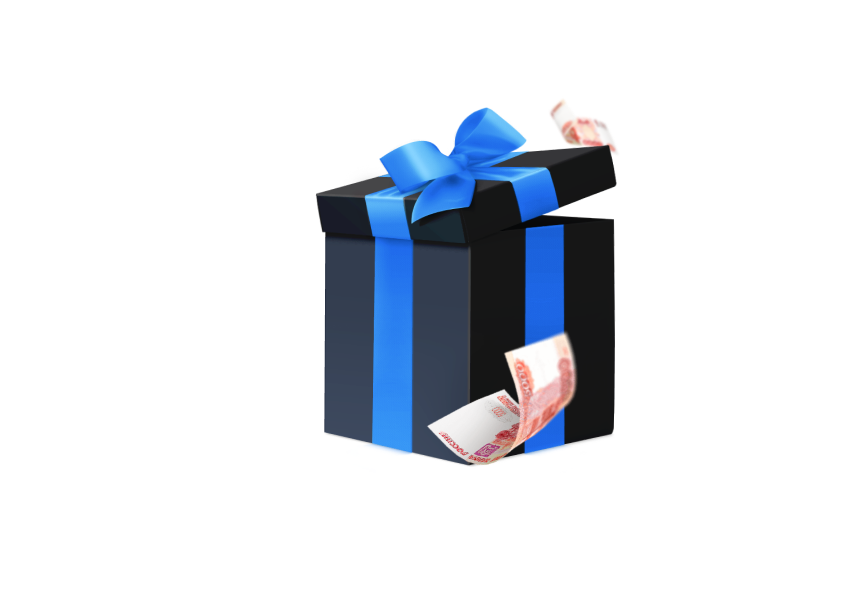
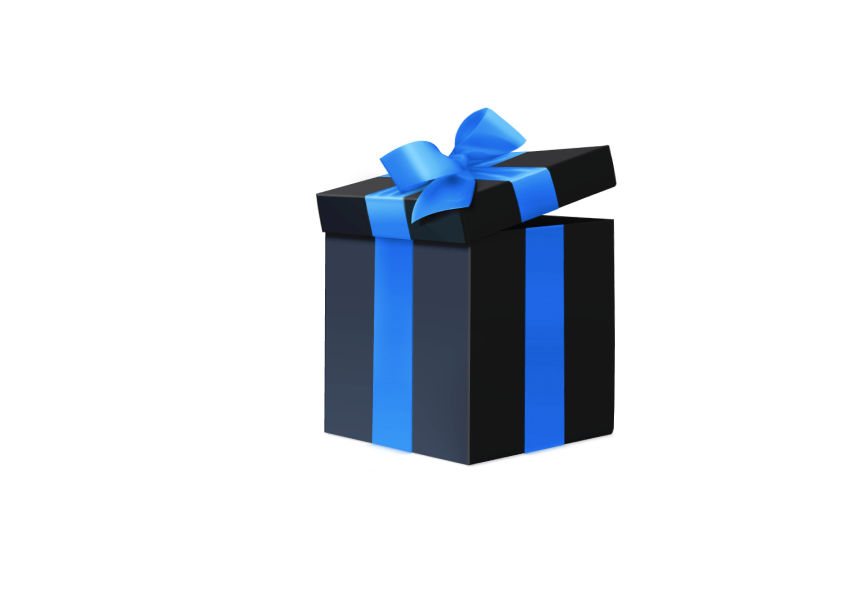
Добавил параллакс эффект изображениям

Changed region(s): [[0.4877, 0.5482, 0.7011, 0.7919], [0.6401, 0.1523, 0.7315, 0.2741]]

diff --git a/js/rellax.min.js b/js/rellax.min.js
@@ -1,0 +1,14 @@
+(function(q,g){"function"===typeof define&&define.amd?define([],g):"object"===typeof module&&module.exports?module.exports=g():q.Rellax=g()})("undefined"!==typeof window?window:global,function(){var q=function(g,u){function C(){if(3===a.options.breakpoints.length&&Array.isArray(a.options.breakpoints)){var f=!0,c=!0,b;a.options.breakpoints.forEach(function(a){"number"!==typeof a&&(c=!1);null!==b&&a<b&&(f=!1);b=a});if(f&&c)return}a.options.breakpoints=[576,768,1201];console.warn("Rellax: You must pass an array of 3 numbers in ascending order to the breakpoints option. Defaults reverted")}
+    var a=Object.create(q.prototype),l=0,v=0,m=0,n=0,d=[],w=!0,A=window.requestAnimationFrame||window.webkitRequestAnimationFrame||window.mozRequestAnimationFrame||window.msRequestAnimationFrame||window.oRequestAnimationFrame||function(a){return setTimeout(a,1E3/60)},p=null,x=!1;try{var k=Object.defineProperty({},"passive",{get:function(){x=!0}});window.addEventListener("testPassive",null,k);window.removeEventListener("testPassive",null,k)}catch(f){}var D=window.cancelAnimationFrame||window.mozCancelAnimationFrame||
+        clearTimeout,E=window.transformProp||function(){var a=document.createElement("div");if(null===a.style.transform){var c=["Webkit","Moz","ms"],b;for(b in c)if(void 0!==a.style[c[b]+"Transform"])return c[b]+"Transform"}return"transform"}();a.options={speed:-2,verticalSpeed:null,horizontalSpeed:null,breakpoints:[576,768,1201],center:!1,wrapper:null,relativeToWrapper:!1,round:!0,vertical:!0,horizontal:!1,verticalScrollAxis:"y",horizontalScrollAxis:"x",callback:function(){}};u&&Object.keys(u).forEach(function(d){a.options[d]=
+        u[d]});u&&u.breakpoints&&C();g||(g=".rellax");k="string"===typeof g?document.querySelectorAll(g):[g];if(0<k.length){a.elems=k;if(a.options.wrapper&&!a.options.wrapper.nodeType)if(k=document.querySelector(a.options.wrapper))a.options.wrapper=k;else{console.warn("Rellax: The wrapper you're trying to use doesn't exist.");return}var F,B=function(){for(var f=0;f<d.length;f++)a.elems[f].style.cssText=d[f].style;d=[];v=window.innerHeight;n=window.innerWidth;f=a.options.breakpoints;F=n<f[0]?"xs":n>=f[0]&&n<
+    f[1]?"sm":n>=f[1]&&n<f[2]?"md":"lg";H();for(f=0;f<a.elems.length;f++){var c=void 0,b=a.elems[f],e=b.getAttribute("data-rellax-percentage"),y=b.getAttribute("data-rellax-speed"),t=b.getAttribute("data-rellax-xs-speed"),g=b.getAttribute("data-rellax-mobile-speed"),h=b.getAttribute("data-rellax-tablet-speed"),k=b.getAttribute("data-rellax-desktop-speed"),l=b.getAttribute("data-rellax-vertical-speed"),m=b.getAttribute("data-rellax-horizontal-speed"),p=b.getAttribute("data-rellax-vertical-scroll-axis"),
+        q=b.getAttribute("data-rellax-horizontal-scroll-axis"),u=b.getAttribute("data-rellax-zindex")||0,x=b.getAttribute("data-rellax-min"),A=b.getAttribute("data-rellax-max"),C=b.getAttribute("data-rellax-min-x"),D=b.getAttribute("data-rellax-max-x"),E=b.getAttribute("data-rellax-min-y"),L=b.getAttribute("data-rellax-max-y"),r=!0;t||g||h||k?c={xs:t,sm:g,md:h,lg:k}:r=!1;t=a.options.wrapper?a.options.wrapper.scrollTop:window.pageYOffset||document.documentElement.scrollTop||document.body.scrollTop;a.options.relativeToWrapper&&
+    (t=(window.pageYOffset||document.documentElement.scrollTop||document.body.scrollTop)-a.options.wrapper.offsetTop);var z=a.options.vertical?e||a.options.center?t:0:0,I=a.options.horizontal?e||a.options.center?a.options.wrapper?a.options.wrapper.scrollLeft:window.pageXOffset||document.documentElement.scrollLeft||document.body.scrollLeft:0:0;t=z+b.getBoundingClientRect().top;g=b.clientHeight||b.offsetHeight||b.scrollHeight;h=I+b.getBoundingClientRect().left;k=b.clientWidth||b.offsetWidth||b.scrollWidth;
+        z=e?e:(z-t+v)/(g+v);e=e?e:(I-h+n)/(k+n);a.options.center&&(z=e=.5);c=r&&null!==c[F]?Number(c[F]):y?y:a.options.speed;l=l?l:a.options.verticalSpeed;m=m?m:a.options.horizontalSpeed;p=p?p:a.options.verticalScrollAxis;q=q?q:a.options.horizontalScrollAxis;y=J(e,z,c,l,m);b=b.style.cssText;r="";if(e=/transform\s*:/i.exec(b))r=b.slice(e.index),r=(e=r.indexOf(";"))?" "+r.slice(11,e).replace(/\s/g,""):" "+r.slice(11).replace(/\s/g,"");d.push({baseX:y.x,baseY:y.y,top:t,left:h,height:g,width:k,speed:c,verticalSpeed:l,
+            horizontalSpeed:m,verticalScrollAxis:p,horizontalScrollAxis:q,style:b,transform:r,zindex:u,min:x,max:A,minX:C,maxX:D,minY:E,maxY:L})}K();w&&(window.addEventListener("resize",B),w=!1,G())},H=function(){var d=l,c=m;l=a.options.wrapper?a.options.wrapper.scrollTop:(document.documentElement||document.body.parentNode||document.body).scrollTop||window.pageYOffset;m=a.options.wrapper?a.options.wrapper.scrollLeft:(document.documentElement||document.body.parentNode||document.body).scrollLeft||window.pageXOffset;
+        a.options.relativeToWrapper&&(l=((document.documentElement||document.body.parentNode||document.body).scrollTop||window.pageYOffset)-a.options.wrapper.offsetTop);return d!=l&&a.options.vertical||c!=m&&a.options.horizontal?!0:!1},J=function(d,c,b,e,g){var f={};d=100*(g?g:b)*(1-d);c=100*(e?e:b)*(1-c);f.x=a.options.round?Math.round(d):Math.round(100*d)/100;f.y=a.options.round?Math.round(c):Math.round(100*c)/100;return f},h=function(){window.removeEventListener("resize",h);window.removeEventListener("orientationchange",
+        h);(a.options.wrapper?a.options.wrapper:window).removeEventListener("scroll",h);(a.options.wrapper?a.options.wrapper:document).removeEventListener("touchmove",h);p=A(G)},G=function(){H()&&!1===w?(K(),p=A(G)):(p=null,window.addEventListener("resize",h),window.addEventListener("orientationchange",h),(a.options.wrapper?a.options.wrapper:window).addEventListener("scroll",h,x?{passive:!0}:!1),(a.options.wrapper?a.options.wrapper:document).addEventListener("touchmove",h,x?{passive:!0}:!1))},K=function(){for(var f,
+                                                                                                                                                                                                                                                                                                                                                                                                                                                                                                                                       c=0;c<a.elems.length;c++){var b=d[c].verticalScrollAxis.toLowerCase(),e=d[c].horizontalScrollAxis.toLowerCase();f=-1!=b.indexOf("x")?l:0;b=-1!=b.indexOf("y")?l:0;var g=-1!=e.indexOf("x")?m:0;e=-1!=e.indexOf("y")?m:0;f=J((f+g-d[c].left+n)/(d[c].width+n),(b+e-d[c].top+v)/(d[c].height+v),d[c].speed,d[c].verticalSpeed,d[c].horizontalSpeed);e=f.y-d[c].baseY;b=f.x-d[c].baseX;null!==d[c].min&&(a.options.vertical&&!a.options.horizontal&&(e=e<=d[c].min?d[c].min:e),a.options.horizontal&&!a.options.vertical&&
+    (b=b<=d[c].min?d[c].min:b));null!=d[c].minY&&(e=e<=d[c].minY?d[c].minY:e);null!=d[c].minX&&(b=b<=d[c].minX?d[c].minX:b);null!==d[c].max&&(a.options.vertical&&!a.options.horizontal&&(e=e>=d[c].max?d[c].max:e),a.options.horizontal&&!a.options.vertical&&(b=b>=d[c].max?d[c].max:b));null!=d[c].maxY&&(e=e>=d[c].maxY?d[c].maxY:e);null!=d[c].maxX&&(b=b>=d[c].maxX?d[c].maxX:b);a.elems[c].style[E]="translate3d("+(a.options.horizontal?b:"0")+"px,"+(a.options.vertical?e:"0")+"px,"+d[c].zindex+"px) "+d[c].transform}a.options.callback(f)};
+        a.destroy=function(){for(var f=0;f<a.elems.length;f++)a.elems[f].style.cssText=d[f].style;w||(window.removeEventListener("resize",B),w=!0);D(p);p=null};B();a.refresh=B;return a}console.warn("Rellax: The elements you're trying to select don't exist.")};return q});

diff --git a/css/style.css b/css/style.css
@@ -1471,7 +1471,7 @@ html .btn--learn-more--inverse .button-text {
 }
 
 .online-shop {
-    overflow-x: hidden;
+    overflow: hidden;
 }
 
 .online-shop-modal .online-shop-modal__img-link img {

diff --git a/template/online-shop.php b/template/online-shop.php
@@ -38,7 +38,7 @@
             <p class="shop-prediction__title">Какой интернет-магазин вы получите?</p>
 
             <div class="shop-prediction-container">
-                <img src="/images/online-shop/shop-prediction/iMac.png" alt="">
+                <img data-rellax-speed="-1" class="rellax" src="/images/online-shop/shop-prediction/iMac.png" alt="">
                 <p class="shop-prediction-container__title"><span>01</span>Которым <b>удобно управлять</b></p>
                 <div class="shop-prediction-container-cards">
                     <div class="shop-prediction-card">
@@ -206,7 +206,10 @@
             </div>
 
             <div class="shop-prediction-container">
-                <img src="/images/online-shop/shop-prediction/book.png" alt="">
+                <img data-rellax-speed="-1" style="top: -10rem;" class="rellax"
+                     src="/images/online-shop/shop-prediction/notebook.png" alt="">
+                <img data-rellax-speed="-1.2" style="top: 0;" class="rellax"
+                     src="/images/online-shop/shop-prediction/blank.png" alt="">
                 <p class="shop-prediction-container__title"><span>02</span>Который <b>удобно продвигать</b></p>
                 <div class="shop-prediction-container-cards">
                     <div class="shop-prediction-card">
@@ -346,7 +349,9 @@
             </div>
 
             <div class="shop-prediction-container">
-                <img src="/images/online-shop/shop-prediction/gift.png" alt="">
+                <img style="top:-6rem" data-rellax-speed="-1" class="rellax" src="/images/online-shop/shop-prediction/gift.png" alt="">
+                <img style="right: 8rem;top: 2rem;" data-rellax-speed="-1.5" class="rellax"
+                     src="/images/online-shop/shop-prediction/money-gift.png" alt="">
                 <p class="shop-prediction-container__title"><span>03</span>В котором <b>удобно покупать</b></p>
                 <div class="shop-prediction-container-cards">
                     <div class="shop-prediction-card">
@@ -461,7 +466,10 @@
             </div>
 
             <div class="shop-prediction-container">
-                <img src="/images/online-shop/shop-prediction/money.png" alt="">
+                <img data-rellax-speed="-1" class="rellax" src="/images/online-shop/shop-prediction/coins.png" alt="">
+                <img style="right: 4rem; top: 12rem;" data-rellax-speed="-1.2" class="rellax"
+                     src="/images/online-shop/shop-prediction/paper-money.png"
+                     alt="">
                 <p class="shop-prediction-container__title"><span>04</span>Через который <b>удобно продавать</b></p>
                 <div class="shop-prediction-container-cards">
                     <div class="shop-prediction-card">

diff --git a/footer.php b/footer.php
@@ -27,9 +27,12 @@
                 </div>
                 <div class="footer__social">
                     <div>
-                        <a href="https://vk.com/im?media=&sel=-89243398" class="hidden wow fadeIn" target="_blank"><img class="svg" src="/images/svg/vk.svg"/></a>
-                        <a href="https://tlgg.ru/@termitFOvlad" class="hidden wow fadeIn" data-wow-delay="0.1s" target="_blank"><img class="svg" src="/images/svg/telegram.svg"/></a>
-                        <a href="https://wa.me/79263815773" class="hidden wow fadeIn" data-wow-delay="0.2s" target="_blank"><img class="svg" src="/images/svg/whatsapp.svg"/></a>
+                        <a href="https://vk.com/im?media=&sel=-89243398" class="hidden wow fadeIn" target="_blank"><img
+                                    class="svg" src="/images/svg/vk.svg"/></a>
+                        <a href="https://tlgg.ru/@termitFOvlad" class="hidden wow fadeIn" data-wow-delay="0.1s"
+                           target="_blank"><img class="svg" src="/images/svg/telegram.svg"/></a>
+                        <a href="https://wa.me/79263815773" class="hidden wow fadeIn" data-wow-delay="0.2s"
+                           target="_blank"><img class="svg" src="/images/svg/whatsapp.svg"/></a>
                     </div>
                 </div>
             </div>
@@ -52,6 +55,7 @@
 
 <?php include "vendors/scripts.php" ?>
 <script src="/js/main.js"></script>
+<script src="/js/rellax.min.js"></script>
 <script src="/js/lightbox-plus-jquery.min.js"></script>
 <script>
     const $page = $('html, body');
@@ -70,6 +74,9 @@
     })
 </script>
 <script>
+    const rellax = new Rellax('.rellax', {
+        center: true,
+    });
     const shopPredictionContainerCards1 = new Swiper('#shop-prediction-container-cards-1', {
         spaceBetween: 15,
         pagination: {

diff --git a/template/service-single.php b/template/service-single.php
@@ -403,8 +403,10 @@ endif;
                             Рассчитать стоимость <img src="/images/svg/online-shop/choose-variants/arrow.svg" alt="">
                         </button>
                     </div>
-                    <div class="price-increase-container-right">
-                        <img src="/images/online-shop/price-increase/dogovor.png" alt="">
+                    <div class="price-increase-container-right position-relative">
+                        <img src="/images/online-shop/price-increase/blank.png" alt="">
+                        <img data-rellax-speed="-0.2" class="position-absolute rellax" style=" top: 0; left: 0" src="/images/online-shop/price-increase/pen.png" alt="">
+                        <img data-rellax-speed="-0.5" class="position-absolute rellax" style=" bottom: 1rem; right: 0" src="/images/online-shop/price-increase/print.png" alt="">
                     </div>
                 </div>
             </div>
